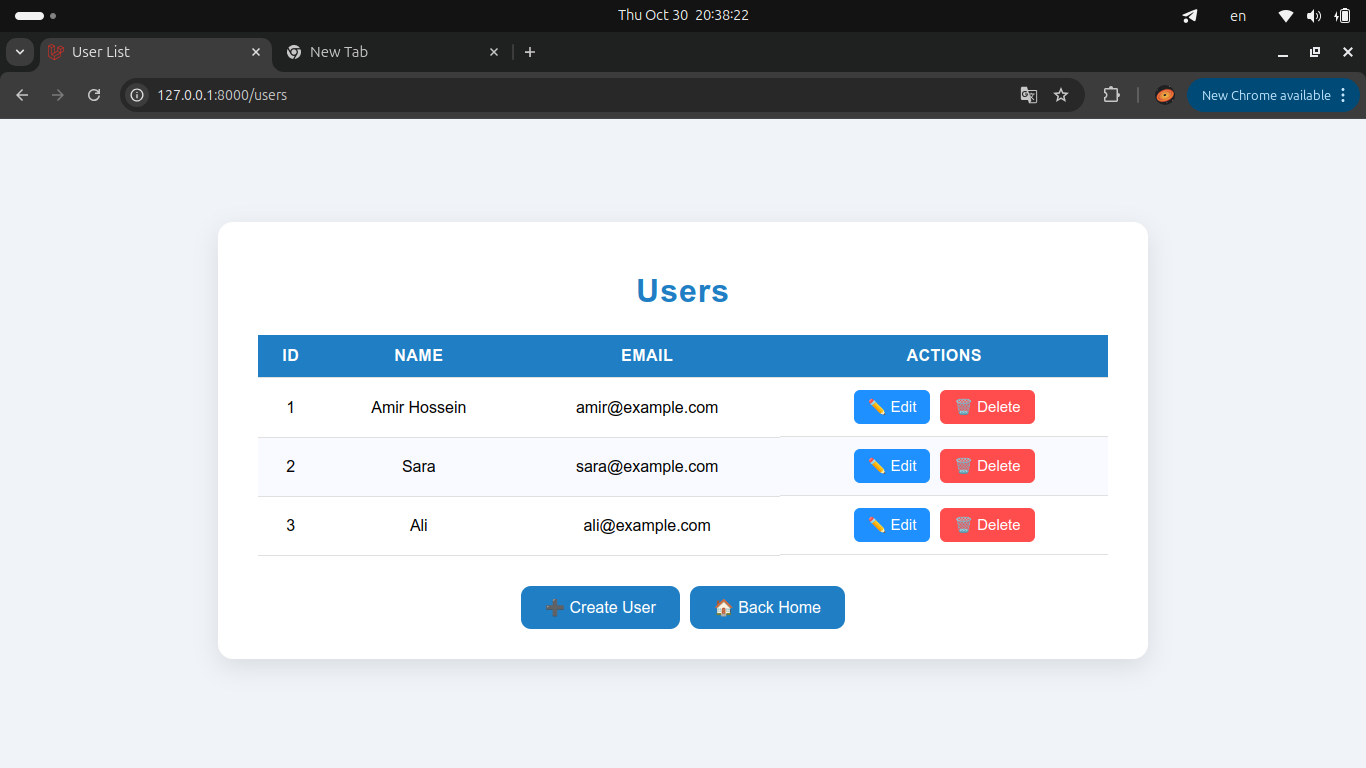
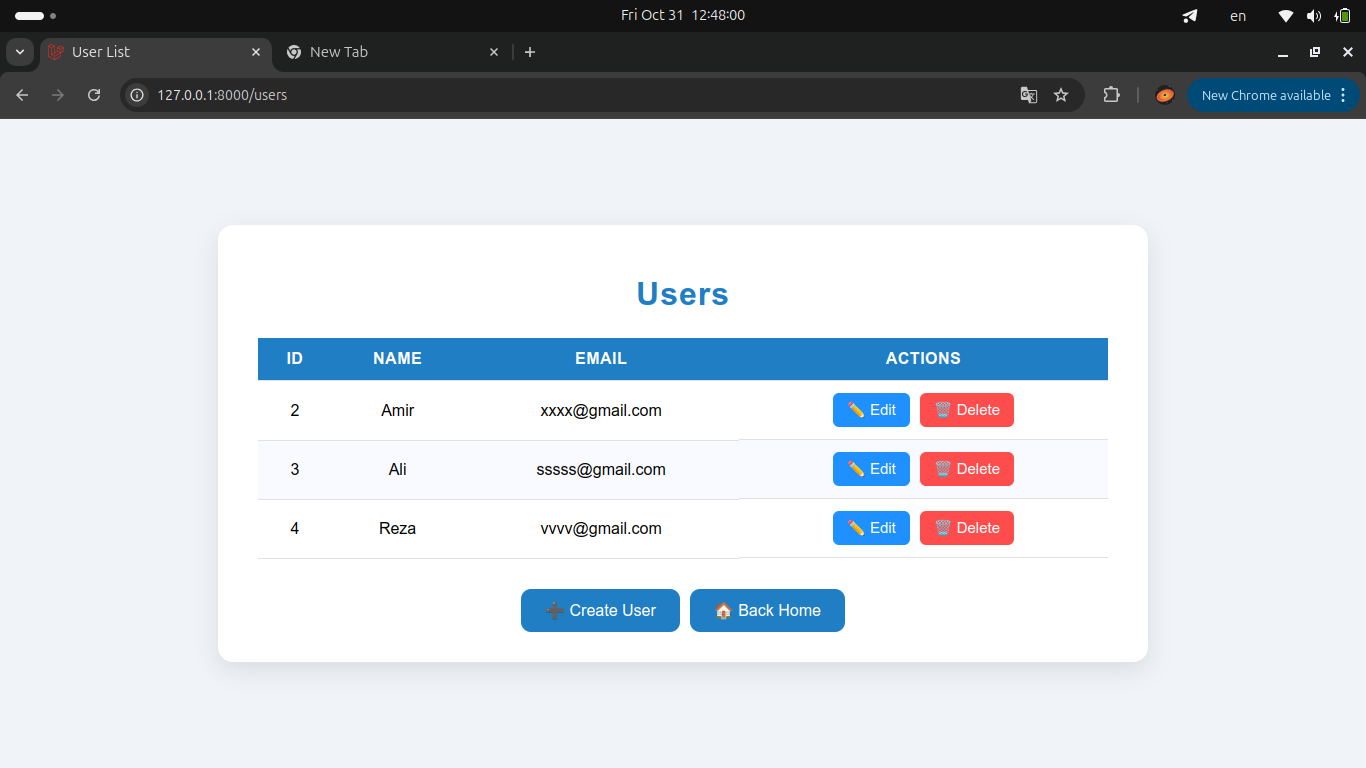
[3] - Exercise three

diff --git a/app/Http/Controllers/UserController.php b/app/Http/Controllers/UserController.php
@@ -3,18 +3,13 @@
 namespace App\Http\Controllers;
 
 use Illuminate\Http\Request;
+use App\Models\User;
 
 class UserController extends Controller
 {
-    private $users = [
-        ['id' => 1, 'name' => 'Amir Hossein', 'email' => 'amir@example.com'],
-        ['id' => 2, 'name' => 'Sara', 'email' => 'sara@example.com'],
-        ['id' => 3, 'name' => 'Ali', 'email' => 'ali@example.com'],
-    ];
-
     public function users()
     {
-        $users = $this->users;
+        $users = User::all();
         return view('users', compact('users'));
     }
 
@@ -23,19 +18,50 @@ class UserController extends Controller
         return view('create');
     }
 
+    public function store(Request $request)
+    {
+        $request->validate([
+            'name' => 'required|string|max:255',
+            'email' => 'required|email|unique:users,email',
+        ]);
+
+        User::create([
+            'name' => $request->name,
+            'email' => $request->email,
+            'password' => bcrypt('123'),
+        ]);
+
+        return redirect()->route('users.users')->with('message', "User {$request->name} created!");
+    }
+
     public function edit($id)
     {
-        $user = collect($this->users)->firstWhere('id', $id);
-
-        if (!$user) {
-            return redirect()->route('users.users')->with('message', "User with ID {$id} not found!");
-        }
-
+        $user = User::findOrFail($id);
         return view('edit', compact('user'));
+    }
+
+    public function update(Request $request, $id)
+    {
+        $user = User::findOrFail($id);
+
+        $request->validate([
+            'name' => 'required|string|max:255',
+            'email' => "required|email|unique:users,email,{$id}",
+        ]);
+
+        $user->update([
+            'name' => $request->name,
+            'email' => $request->email,
+        ]);
+
+        return redirect()->route('users.users')->with('message', "User {$user->name} updated!");
     }
 
     public function delete($id)
     {
-        return redirect()->route('users.users')->with('message', "User with ID {$id} deleted!");
+        $user = User::findOrFail($id);
+        $user->delete();
+
+        return redirect()->route('users.users')->with('message', "User {$user->name} deleted!");
     }
 }

diff --git a/resources/views/create.blade.php b/resources/views/create.blade.php
@@ -9,27 +9,20 @@
     <div class="container">
         <h1>Create New User</h1>
 
-        <form onsubmit="return submitForm();">
+        <form action="{{ route('users.store') }}" method="POST">
+            @csrf
             <div class="form-group">
-                <input type="text" id="name" placeholder="Full Name" required>
+                <input type="text" name="name" placeholder="Full Name" required>
             </div>
             <div class="form-group">
-                <input type="email" id="email" placeholder="Email Address" required>
+                <input type="email" name="email" placeholder="Email Address" required>
             </div>
 
             <div class="buttons">
                 <button type="submit" class="add-btn">➕ Add User</button>
-                <button type="button" class="back-btn" onclick="window.location.href='/users'">← Back to List</button>
+                <button type="button" class="back-btn" onclick="window.location.href='{{ route('users.users') }}'">← Back to List</button>
             </div>
         </form>
     </div>
-
-    <script>
-        function submitForm() {
-            alert('✅ User created successfully (simulation)');
-            window.location.href = '/users';
-            return false;
-        }
-    </script>
 </body>
 </html>

diff --git a/database/migrations/0001_01_01_000000_create_users_table.php b/database/migrations/0001_01_01_000000_create_users_table.php
@@ -15,25 +15,7 @@ return new class extends Migration
             $table->id();
             $table->string('name');
             $table->string('email')->unique();
-            $table->timestamp('email_verified_at')->nullable();
-            $table->string('password');
-            $table->rememberToken();
             $table->timestamps();
-        });
-
-        Schema::create('password_reset_tokens', function (Blueprint $table) {
-            $table->string('email')->primary();
-            $table->string('token');
-            $table->timestamp('created_at')->nullable();
-        });
-
-        Schema::create('sessions', function (Blueprint $table) {
-            $table->string('id')->primary();
-            $table->foreignId('user_id')->nullable()->index();
-            $table->string('ip_address', 45)->nullable();
-            $table->text('user_agent')->nullable();
-            $table->longText('payload');
-            $table->integer('last_activity')->index();
         });
     }
 
@@ -43,7 +25,5 @@ return new class extends Migration
     public function down(): void
     {
         Schema::dropIfExists('users');
-        Schema::dropIfExists('password_reset_tokens');
-        Schema::dropIfExists('sessions');
     }
 };

diff --git a/resources/views/edit.blade.php b/resources/views/edit.blade.php
@@ -9,9 +9,13 @@
     <div class="container">
         <h1>Edit User</h1>
 
-        <form onsubmit="return updateUser();">
-            <input type="text" id="name" placeholder="Enter name" value="{{ $user['name'] }}" required>
-            <input type="email" id="email" placeholder="Enter email" value="{{ $user['email'] }}" required>
+        <form action="{{ route('users.update', $user->id) }}" method="POST">
+            @csrf
+            @method('PUT')
+
+            <input type="text" name="name" placeholder="Enter name" value="{{ $user->name }}" required>
+            <input type="email" name="email" placeholder="Enter email" value="{{ $user->email }}" required>
+
             <button type="submit">Update</button>
         </form>
 

diff --git a/routes/web.php b/routes/web.php
@@ -10,7 +10,9 @@ Route::get('/', function(){
 Route::get('/users', [UserController::class, 'users'])->name('users.users');
 
 Route::get('/users/create', [UserController::class, 'create'])->name('users.create');
+Route::post('/users', [UserController::class, 'store'])->name('users.store');
 
 Route::delete('/users/{id}', [UserController::class, 'delete'])->name('users.delete');
 
 Route::get('/users/{id}/edit', [UserController::class, 'edit'])->name('users.edit');
+Route::put('/users/{id}', [UserController::class, 'update'])->name('users.update');
